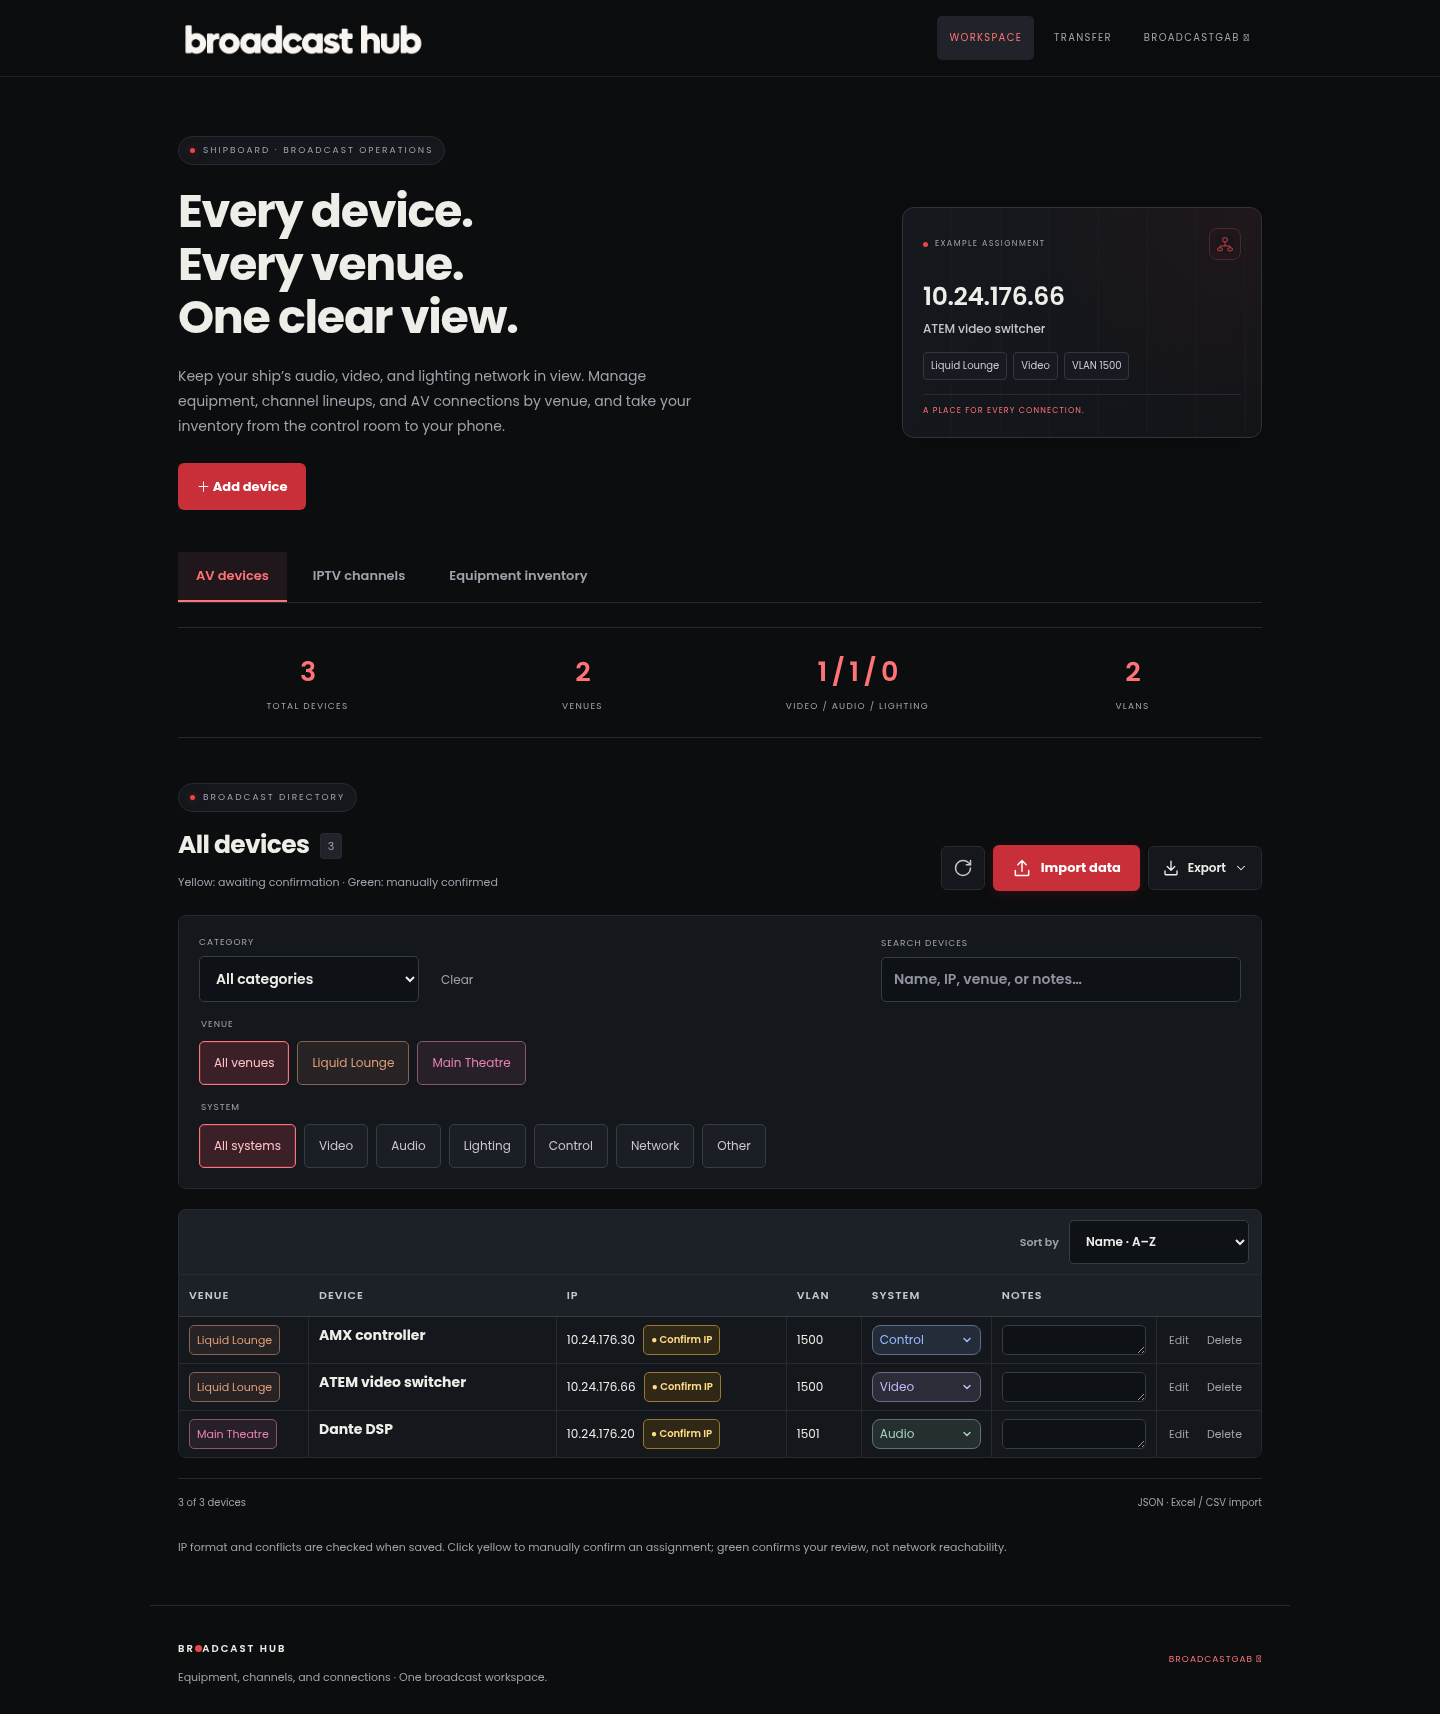
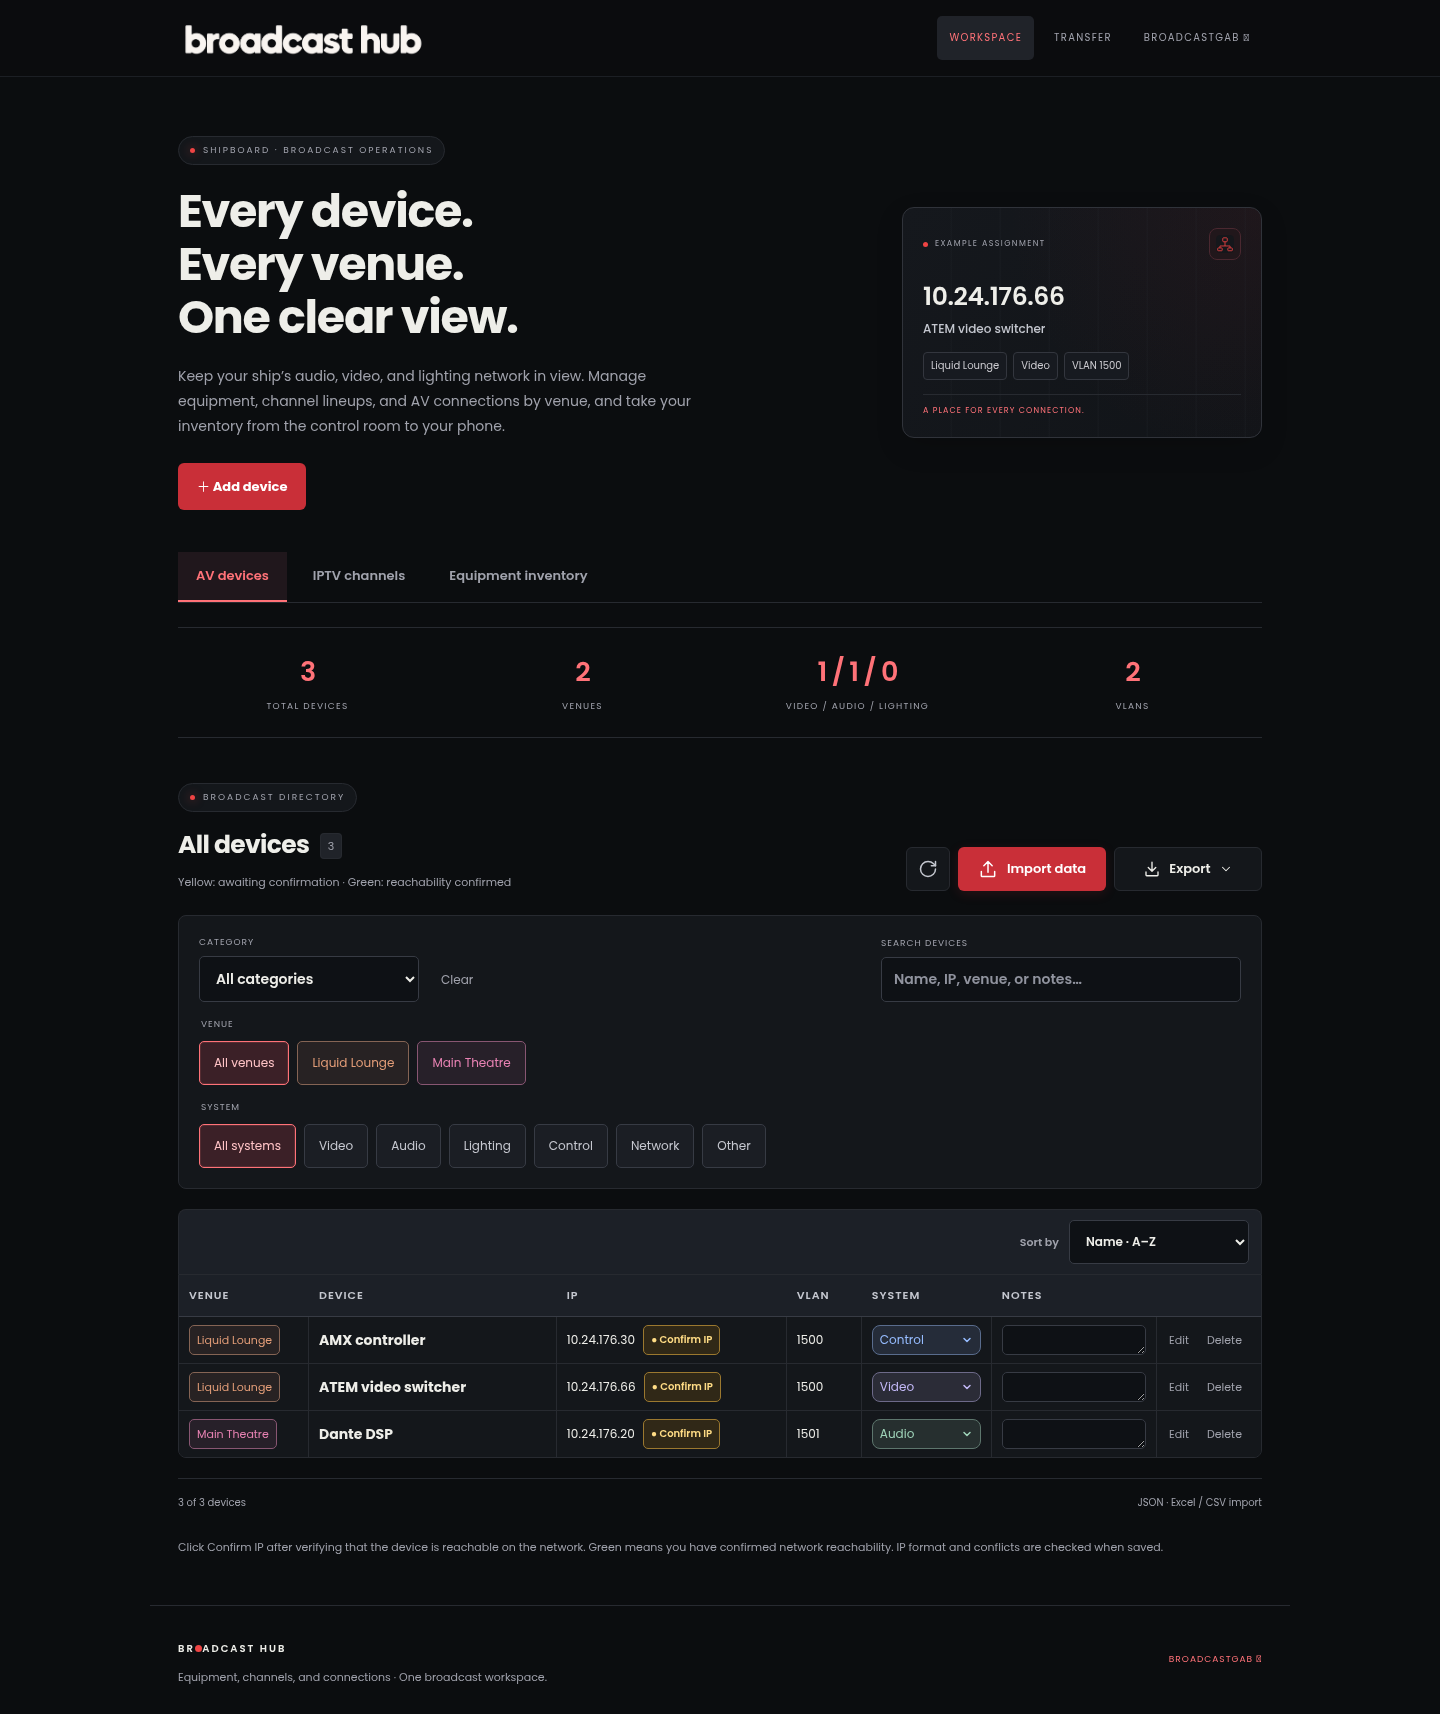
Describe confirmation as user-verified reachability and refresh page screenshot

Changed region(s): [[0.6562, 0.4947, 0.8438, 0.5257], [0.2188, 0.773, 0.3125, 0.8349]]

diff --git a/static/index.html b/static/index.html
@@ -14,7 +14,7 @@
 <div id="workspace" class="inventory-tabs" role="tablist" aria-label="Inventory type"><button id="device-tab" role="tab" aria-selected="true" aria-controls="inventory">AV devices</button><button id="iptv-tab" role="tab" aria-selected="false" aria-controls="inventory" tabindex="-1">IPTV channels</button><button id="equipment-tab" role="tab" aria-selected="false" aria-controls="equipment-panel" tabindex="-1">Equipment inventory</button></div>
 <section class="stats" aria-label="Inventory summary"><div><span id="total-label">Total devices</span><strong id="total">—</strong></div><div id="venue-stat"><span>Venues</span><strong id="venue-count">—</strong></div><div><span id="system-count-label">Video / Audio / Lighting</span><strong id="system-count">—</strong></div><div id="vlan-stat"><span>VLANs</span><strong id="vlan-count">—</strong></div></section>
 <section class="inventory-panel" id="inventory" role="tabpanel" aria-labelledby="device-tab">
-<div class="panel-heading"><div><p class="eyebrow">BROADCAST DIRECTORY</p><h2><span id="list-title">All devices</span> <span id="result-count" class="count">0</span></h2><p id="confirmation-legend">Yellow: awaiting confirmation · Green: manually confirmed</p></div><div class="file-actions" id="transfer"><button id="refresh" class="quiet refresh-button" type="button" aria-label="Refresh" title="Refresh"><svg viewBox="0 0 24 24" aria-hidden="true" focusable="false"><path d="M21 12a9 9 0 1 1-9-9c2.52 0 4.93 1 6.74 2.74L21 8"/><path d="M21 3v5h-5"/></svg></button><button id="import" class="primary import-button" type="button"><svg viewBox="0 0 24 24" aria-hidden="true" focusable="false"><path d="M12 16V3m-5 5 5-5 5 5M4 15v5a1 1 0 0 0 1 1h14a1 1 0 0 0 1-1v-5"/></svg><span>Import data</span></button><details class="export-dropdown"><summary class="export-toggle"><svg viewBox="0 0 24 24" aria-hidden="true" focusable="false"><path d="M12 3v12m-5-5 5 5 5-5M4 16v4a1 1 0 0 0 1 1h14a1 1 0 0 0 1-1v-4"/></svg><span>Export</span><svg class="export-chevron" viewBox="0 0 24 24" aria-hidden="true" focusable="false"><path d="m6 9 6 6 6-6"/></svg></summary><div class="export-links"><a href="/api/export" download>JSON ↓</a><a href="/api/export.csv" download>CSV ↓</a><a href="/api/export.xlsx" class="report-download" download="broadcast-network.xlsx">XLSX ↓</a><a href="/api/export.pdf" class="report-download" download="broadcast-network.pdf">PDF ↓</a></div></details><input id="import-file" type="file" accept=".json,.xlsx,.csv,application/json,application/vnd.openxmlformats-officedocument.spreadsheetml.sheet,text/csv" hidden></div></div>
+<div class="panel-heading"><div><p class="eyebrow">BROADCAST DIRECTORY</p><h2><span id="list-title">All devices</span> <span id="result-count" class="count">0</span></h2><p id="confirmation-legend">Yellow: awaiting confirmation · Green: reachability confirmed</p></div><div class="file-actions" id="transfer"><button id="refresh" class="quiet refresh-button" type="button" aria-label="Refresh" title="Refresh"><svg viewBox="0 0 24 24" aria-hidden="true" focusable="false"><path d="M21 12a9 9 0 1 1-9-9c2.52 0 4.93 1 6.74 2.74L21 8"/><path d="M21 3v5h-5"/></svg></button><button id="import" class="primary import-button" type="button"><svg viewBox="0 0 24 24" aria-hidden="true" focusable="false"><path d="M12 16V3m-5 5 5-5 5 5M4 15v5a1 1 0 0 0 1 1h14a1 1 0 0 0 1-1v-5"/></svg><span>Import data</span></button><details class="export-dropdown"><summary class="export-toggle"><svg viewBox="0 0 24 24" aria-hidden="true" focusable="false"><path d="M12 3v12m-5-5 5 5 5-5M4 16v4a1 1 0 0 0 1 1h14a1 1 0 0 0 1-1v-4"/></svg><span>Export</span><svg class="export-chevron" viewBox="0 0 24 24" aria-hidden="true" focusable="false"><path d="m6 9 6 6 6-6"/></svg></summary><div class="export-links"><a href="/api/export" download>JSON ↓</a><a href="/api/export.csv" download>CSV ↓</a><a href="/api/export.xlsx" class="report-download" download="broadcast-network.xlsx">XLSX ↓</a><a href="/api/export.pdf" class="report-download" download="broadcast-network.pdf">PDF ↓</a></div></details><input id="import-file" type="file" accept=".json,.xlsx,.csv,application/json,application/vnd.openxmlformats-officedocument.spreadsheetml.sheet,text/csv" hidden></div></div>
 <div class="filters directory-filters"><label id="category-filter-label"><span>Category</span><select id="category-filter"><option value="">All categories</option></select></label><button id="clear-filters" class="quiet">Clear</button><label class="search"><span>Search devices</span><input id="search" type="search" placeholder="Name, IP, venue, or notes…"></label><input id="venue-filter" type="hidden"><input id="system-filter" type="hidden"><fieldset id="venue-filter-group" class="button-filter"><legend>Venue</legend><div id="venue-buttons" class="choice-buttons" role="group" aria-label="Filter by venue"></div></fieldset><fieldset id="address-filter-group" class="button-filter" hidden><legend>IP assignment</legend><input id="address-filter" type="hidden"><div id="address-buttons" class="choice-buttons" role="group" aria-label="Filter by IP assignment"></div></fieldset><fieldset id="system-filter-group" class="button-filter"><legend>System</legend><div id="system-buttons" class="choice-buttons" role="group" aria-label="Filter by system"></div></fieldset><fieldset id="source-filter-group" class="button-filter" hidden><legend>Channel source</legend><input id="source-filter" type="hidden"><div id="source-buttons" class="choice-buttons" role="group" aria-label="Filter by channel source"></div></fieldset></div>
 <p id="load-error" class="error banner" role="alert" hidden></p>
 <div id="loading" class="empty">Loading your inventory…</div>
@@ -34,7 +34,7 @@
 <div class="equipment-table-wrap"><table id="equipment-table"><caption class="sr-only">Broadcast equipment inventory</caption><thead><tr><th scope="col">Brand</th><th scope="col">Model</th><th scope="col">Description</th><th scope="col">Serial number</th><th scope="col">Quantity</th><th scope="col">Location</th><th scope="col">Notes</th><th scope="col">Actions</th></tr></thead><tbody id="equipment-rows"></tbody></table></div>
 <footer class="panel-footer"><span id="equipment-showing">0 items</span><span>Equipment exports · JSON / CSV</span></footer>
 </section>
-<p class="footnote" id="validation-note">IP format and conflicts are checked when saved. Click yellow to manually confirm an assignment; green confirms your review, not network reachability.</p>
+<p class="footnote" id="validation-note">Click Confirm IP after verifying that the device is reachable on the network. Green means you have confirmed network reachability. IP format and conflicts are checked when saved.</p>
 </main><footer class="site-footer"><div><strong aria-label="Broadcast Hub"><span class="brand-word" aria-hidden="true">BR<span class="record-o"></span>ADCAST HUB</span></strong><p>Equipment, channels, and connections · One broadcast workspace.</p></div><a href="https://broadcastgab.com" target="_blank" rel="noopener noreferrer">BROADCASTGAB ↗</a></footer>
 <dialog id="device-dialog" aria-labelledby="form-title"><form id="device-form"><div class="dialog-heading"><div><p class="eyebrow">DEVICE DETAILS</p><h2 id="form-title">Add device</h2></div><button type="button" id="close-dialog" class="icon-button" aria-label="Close">✕</button></div><p id="form-intro" class="dialog-intro">Give this device a home in your inventory.</p>
 <div class="form-grid"><input name="record_type" type="hidden" value="device"><label class="full"><span id="name-label">Device name</span><input name="name" maxlength="120" placeholder="e.g. ATEM video switcher" autocomplete="off"></label><label id="category-field">Category<input name="category" maxlength="120" list="categories" placeholder="e.g. Video switcher"><datalist id="categories"><option value="Video switcher"><option value="Camera"><option value="Display"><option value="Audio console"><option value="Amplifier"><option value="Lighting console"><option value="Network switch"><option value="Media server"></datalist></label><label id="form-system-group" class="full">System<select id="form-system" name="discipline"><option value=""></option><option value="Video">Video</option><option value="Audio">Audio</option><option value="Lighting">Lighting</option><option value="Control">Control</option><option value="Network">Network</option><option value="Other">Other</option></select></label><fieldset id="form-source-group" class="form-choices full" hidden><legend>Channel source</legend><input name="channel_source" type="hidden"><div id="form-source-buttons" class="choice-buttons" role="group" aria-label="Channel source"></div></fieldset><label class="full" id="venue-field">Venue<input name="venue" maxlength="120" list="venues" placeholder="e.g. Liquid Lounge"><datalist id="venues"></datalist></label><div class="full" id="venue-suggestions" hidden><p class="suggestion-label">Choose a saved venue, or type a new one above</p><div id="form-venue-buttons" class="choice-buttons" role="group" aria-label="Choose saved venue"></div></div><label>IP address<input name="ip" maxlength="15" inputmode="decimal" placeholder="10.24.176.66" autocomplete="off" spellcheck="false" aria-describedby="ip-hint"><small id="ip-hint">IPv4 · checked when saved</small></label><label id="vlan-field">VLAN<input name="vlan" type="number" min="1" max="4094" step="1" inputmode="numeric" placeholder="1500"><small>Optional · 1–4094</small></label><label id="port-field" hidden>Port<input name="port" type="number" min="1" max="65535" step="1" inputmode="numeric" placeholder="e.g. 1234"><small>1–65535</small></label><label class="full">Notes <span class="optional">(optional)</span><textarea name="notes" maxlength="2000" rows="3" placeholder="Rack location, port, or anything worth knowing…"></textarea></label></div><p id="form-error" class="error" role="alert" hidden></p><div class="dialog-actions"><button type="button" id="cancel-dialog" class="secondary">Cancel</button><button id="save-device" class="primary" type="submit">Save device</button></div></form></dialog>

diff --git a/static/app.js b/static/app.js
@@ -226,7 +226,7 @@ function switchTab(type) {
   $('source-filter-group').hidden = !iptv;
   for (const id of ['venue-filter-group','venue-stat','vlan-stat','validation-note']) $(id).hidden = iptv;
   document.querySelector('.stats').classList.toggle('iptv-stats', iptv);
-  $('confirmation-legend').textContent = iptv ? 'Channel addresses and stream ports · Onboard / Satellite' : 'Yellow: awaiting confirmation · Green: manually confirmed';
+  $('confirmation-legend').textContent = iptv ? 'Channel addresses and stream ports · Onboard / Satellite' : 'Yellow: awaiting confirmation · Green: reachability confirmed';
   updateFilterOptions(); render();
 }
 const inventoryTabs = [['device-tab','device'],['iptv-tab','iptv'],['equipment-tab','equipment']];
@@ -392,7 +392,7 @@ function render() {
     confirmation.type = 'button';
     confirmation.disabled = Boolean(device.ip_confirmed);
     confirmation.setAttribute('aria-label', `${device.ip_confirmed ? 'IP confirmed for' : 'Confirm IP for'} ${deviceLabel(device)}`);
-    confirmation.title = device.ip_confirmed ? 'Manually confirmed. This is not a reachability test.' : 'Click to manually confirm this IP assignment.';
+    confirmation.title = device.ip_confirmed ? 'Network reachability confirmed by you.' : 'Click after verifying that this device is reachable on the network.';
     confirmation.onclick = async () => {
       confirmation.disabled = true;
       try {

diff --git a/README.md b/README.md
@@ -38,7 +38,7 @@ Use the **Export** dropdown beside Import data to download JSON, CSV, XLSX, or P
 - The AV directory shows **Venue → Device → IP → VLAN → System → Notes**, with a fixed heading row inside the scrolling directory. Compact buttons, cell padding, and a resizable single-line notes field keep rows close to their content height. Colored venue buttons filter the list. The **Confirm IP** button sits beside the address. VLAN has its own column immediately after IP; notes use a narrower final column. Device names have no decorative icons. On a phone, swipe horizontally to view all columns. The system dropdown opens colored options for Video, Audio, Lighting, Control, Network, and Other; Clear system restores a blank value. Keyboard arrows navigate the options and Escape closes the menu.
 - Search device names, addresses, categories, venues, systems, VLANs, or notes. Tap venue and system buttons to combine filters with category and VLAN. In the device form, select a system from the dropdown and choose a saved venue button or type a new venue.
 - After import, AV devices with a blank system automatically receive a system matched from their name. Matching is case insensitive and uses the first matching keyword in your requested rule order; names with no match stay blank. Explicit systems in JSON imports are preserved, and existing assignments skipped during import retain their saved system. This applies to newly imported AV devices, including edited names accepted during spreadsheet review; manual entry and IPTV/equipment imports are unchanged. Adjust the result directly from each AV device’s dropdown. Edit notes in the device or IPTV list; notes save when you leave the field, including when clearing it. System and note edits preserve IP confirmation and other fields. Use Edit for other details, or delete records with confirmation.
-- Each AV device with a fixed IP address starts with a yellow **Confirm IP** button. Records with a blank IP or DHCP assignment have no confirmation button until a fixed address is added. Click it after reviewing the assignment to save a green **IP confirmed** status. This is manual review, not a ping or reachability test. Confirmation persists in the database. Editing the IP address or VLAN resets it to yellow; other edits preserve it. Existing databases upgrade automatically, and newly imported records start unconfirmed even if the export contains confirmation metadata.
+- Each AV device with a fixed IP address starts with a yellow **Confirm IP** button. Records with a blank IP or DHCP assignment have no confirmation button until a fixed address is added. Click it after verifying that the device is reachable on the network to save a green **IP confirmed** status. This records your reachability check; the app does not automatically ping the device. Confirmation persists in the database. Editing the IP address or VLAN resets it to yellow; other edits preserve it. Existing databases upgrade automatically, and newly imported records start unconfirmed even if the export contains confirmation metadata.
 - Use **Fill ATEM example** on an empty inventory to populate the form with `10.24.176.66`, Liquid Lounge, Video switcher, Video, VLAN `1500`. This does not insert sample data until you click Save.
 - IP validation checks IPv4 format and rejects loopback, unspecified, and limited broadcast addresses. Multicast is supported for IPTV channels only. VLANs are optional; when provided they must be integers from 1 to 4094. Each fixed AV IP address must be unique, even across VLANs. Enter DHCP (case insensitive) when the device uses a dynamic assignment; it is stored as DHCP without inventing an address. All DHCP records in the active network tab share one DHCP filter button, which combines with venue, system, and other filters. DHCP markers can repeat without duplicate-IP warnings and have no manual IP confirmation. Older duplicate addresses are preserved and flagged below the device list so you can review them; new duplicates are blocked.
 - Validation does not ping devices, infer subnets, verify a gateway, or detect directed broadcast/network addresses without a subnet mask. A stored device may be powered off or unreachable.
@@ -73,7 +73,7 @@ Save older **.xls** files as **.xlsx** in Excel first. Password-protected files 
 
 **PDF ↓** and **XLSX ↓** export the latest saved information from either phone or computer. Network downloads contain AV devices and IPTV channels; equipment downloads contain physical inventory. Exports include all saved records, regardless of the active filters. AV Excel columns start with Venue, Device name, IP Address, VLAN, System, and Notes, followed by IP confirmation and Category. The workbook has separate **AV devices** and **IPTV channels** sheets, filters, frozen headers, wrapped notes, and colored system/status cells. Equipment workbooks contain all seven inventory fields. Blank values remain blank, numeric quantities/ports/VLANs stay numeric, and formula-like text is exported as literal text. Notes and system changes already being saved are completed before the download starts. These are readable reports; use JSON for the complete transfer format.
 
-PDF reports follow the website's dark palette, terminal-style branding with the red REC icon, directory columns, colored system labels, and green/yellow confirmation text. AV PDF columns are Venue, Device, IP, VLAN, Confirmation, System, and Notes, with a narrower Device column. IPTV uses separate IP and Port columns. Each IPv4 address is a clickable, underlined link to its `http://` address; blank and DHCP values have no link. The PDF viewer controls whether external links open a new browser tab/window. They use landscape pages and repeat table headings when content spans pages; long notes can continue on another page. Every page has a styled **REPORT GENERATED BY BROADCASTHUB** footer, a clickable **broadcastgab.com** link, and its page number. PDF confirmation indicates saved manual review, not live device reachability. Generating reports does not modify the database.
+PDF reports follow the website's dark palette, terminal-style branding with the red REC icon, directory columns, colored system labels, and green/yellow confirmation text. AV PDF columns are Venue, Device, IP, VLAN, Confirmation, System, and Notes, with a narrower Device column. IPTV uses separate IP and Port columns. Each IPv4 address is a clickable, underlined link to its `http://` address; blank and DHCP values have no link. The PDF viewer controls whether external links open a new browser tab/window. They use landscape pages and repeat table headings when content spans pages; long notes can continue on another page. Every page has a styled **REPORT GENERATED BY BROADCASTHUB** footer, a clickable **broadcastgab.com** link, and its page number. PDF confirmation indicates your saved reachability check; it is not a live network measurement. Generating reports does not modify the database.
 
 To update an existing Windows installation, replace `app.py`, add `exports.py`, replace `requirements.txt` and the complete `static` folder, and keep your `data` folder. Run `py -m pip install -r requirements.txt`, restart `py app.py`, and refresh with Ctrl+F5. Excel/PDF generation uses the pinned dependencies; no external office application, browser print dialog, or system fonts are required.
 
